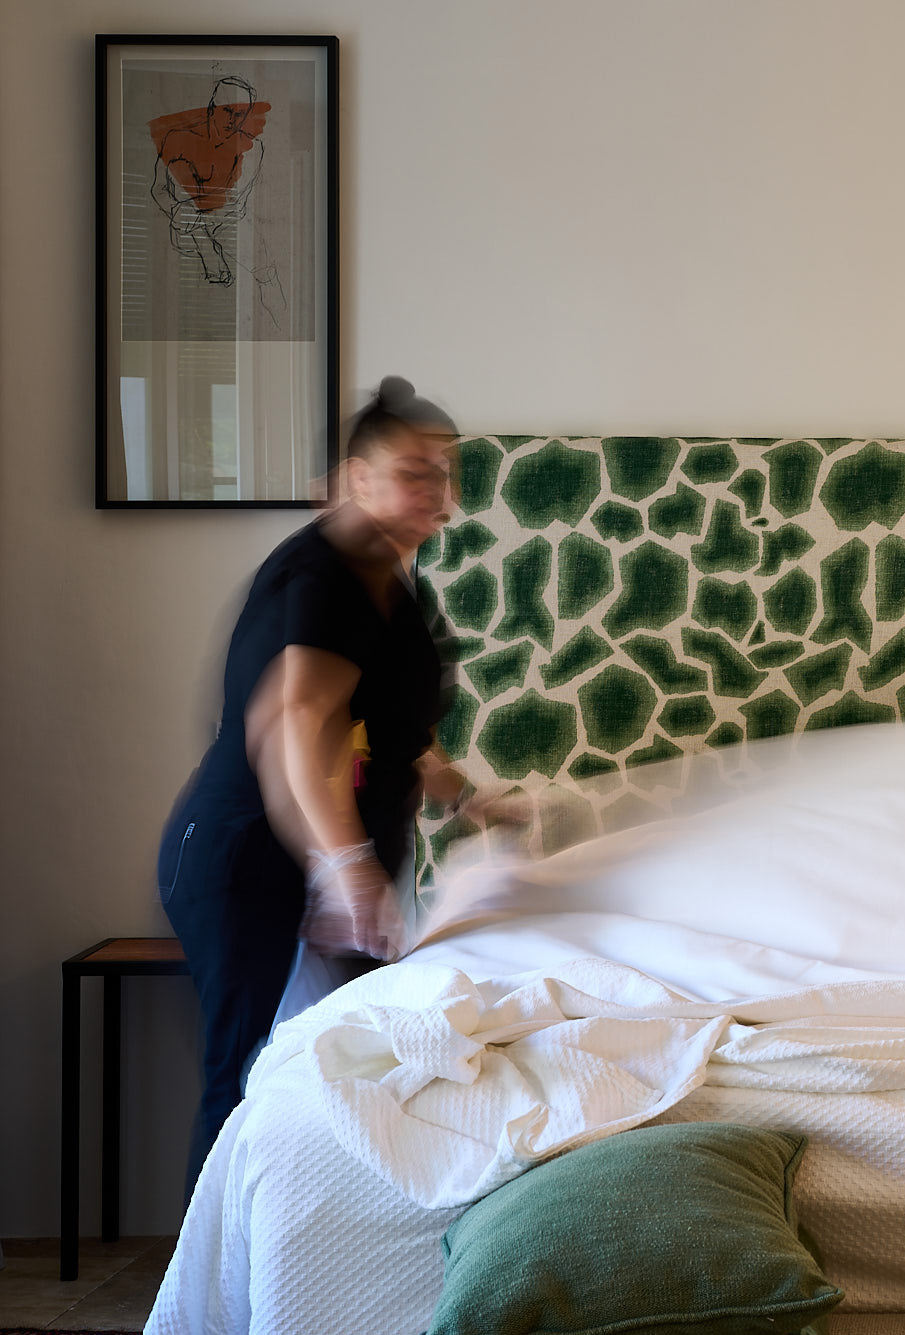
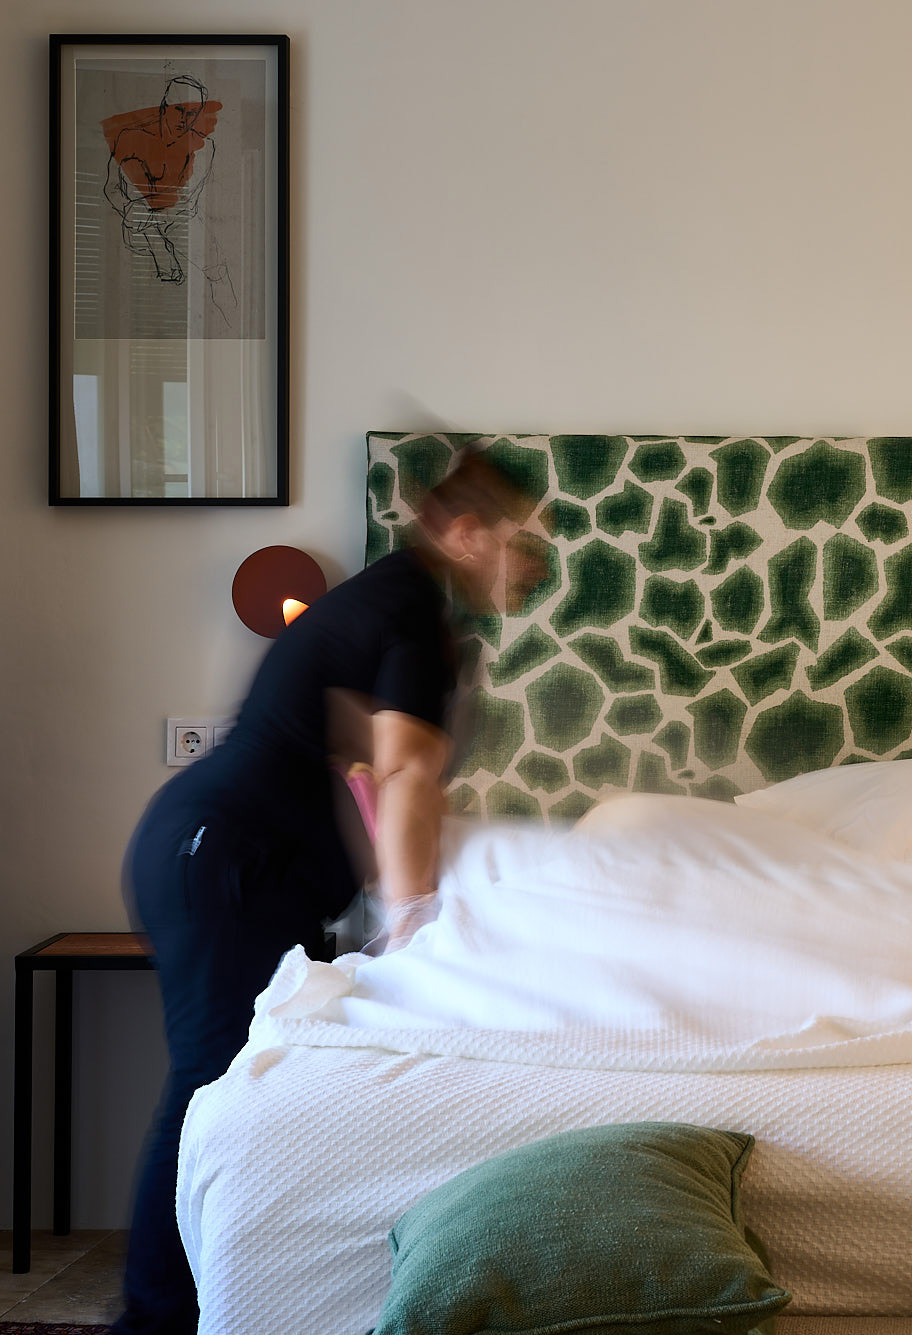
Tableta en vertical: márgenes de retícula, fotos de escritorio y tamaños de texto en El hotel; titulares unificados

diff --git a/src/css/style.css b/src/css/style.css
@@ -325,7 +325,7 @@ button { font: inherit; color: inherit; background: none; border: 0; cursor: poi
   margin: 0;
   font-family: var(--f-serif);
   font-weight: 300;
-  font-size: var(--fs-lead);
+  font-size: var(--fs-h1);
   line-height: 1.2; /* 120% */
   color: var(--c-olive-dark);
 }
@@ -390,6 +390,7 @@ button { font: inherit; color: inherit; background: none; border: 0; cursor: poi
 .hero ~ section {
   position: relative;
   z-index: 1;
+  transform: translateZ(0);         /* iPad (Safari/Chrome): fuerza a pintar la sección en su propia capa, por encima del hero; si no, el titular y la frase del hero se veían encima del contenido  */
   background: var(--c-bg);
 }
 
@@ -615,7 +616,7 @@ button { font: inherit; color: inherit; background: none; border: 0; cursor: poi
   margin: 20px 0 0;                /* 20px desde "Vivir Viento 10" */
   font-family: var(--f-serif);
   font-weight: 300;
-  font-size: var(--fs-room-name);  /* 40px */
+  font-size: var(--fs-h1);  /* 40px */
   line-height: 1.2;
   color: var(--c-olive-dark);
 }
@@ -698,7 +699,7 @@ button { font: inherit; color: inherit; background: none; border: 0; cursor: poi
   margin: 20px 0 0;
   font-family: var(--f-serif);
   font-weight: 300;
-  font-size: var(--fs-room-name);  /* 40px */
+  font-size: var(--fs-h1);  /* 40px */
   line-height: 1.2;
   color: var(--c-olive-dark);
   max-width: 700px;                /* caja ajustada: corta en "vivieron / Viento 10," */
@@ -809,7 +810,7 @@ button { font: inherit; color: inherit; background: none; border: 0; cursor: poi
   margin: 0 0 50px;
   font-family: var(--f-serif);
   font-weight: 300;
-  font-size: var(--fs-room-name);  /* 40px */
+  font-size: var(--fs-h1);  /* 40px */
   line-height: 1.2;
 }
 
@@ -1086,7 +1087,7 @@ button { font: inherit; color: inherit; background: none; border: 0; cursor: poi
   margin: 20px 0 0;                           /* 20px desde el antetítulo */
   font-family: var(--f-serif);
   font-weight: 300;
-  font-size: var(--fs-room-name);             /* 40px */
+  font-size: var(--fs-h1);             /* 40px */
   line-height: 1.2;
   color: var(--c-olive-dark);
 }
@@ -1214,7 +1215,7 @@ button { font: inherit; color: inherit; background: none; border: 0; cursor: poi
   margin: 15px 0 0;
   font-family: var(--f-serif);
   font-weight: 300;
-  font-size: var(--fs-more);                  /* 40px a 1440 (ver --fs-more) */
+  font-size: var(--fs-h1);                    /* 40px, como los demás titulares grandes */
   line-height: 1.2;
 }
 /* Enlaces en cursiva y subrayados; en hover bajan la opacidad */
@@ -1433,12 +1434,13 @@ html:has(body.no-scroll) { overflow: hidden; } /* Safari: si no, la página de d
   rotate: -4deg;                              /* "rotate" para no chocar con el fundido (transform) */
 }
 
-@media (max-width: 767px) {
+@media (max-width: 767px), (max-width: 1023px) and (orientation: portrait) {   /* móvil y tableta en vertical: ladillo encima y texto debajo */
   .care { padding: 0 var(--gutter-sm) 100px; }
   .care__media { aspect-ratio: 810 / 1200; }   /* vertical, la proporción de img_salon_movil.jpg (antes 4/3 horizontal) */
   .care__body { flex-direction: column; gap: 20px; margin-top: 40px; } /* 40px entre foto y ladillo, 20px entre ladillo y texto */
   .care__text { flex-basis: auto; }      /* mismo motivo: el ancho de escritorio (665px) no debe volverse alto en columna */
   .care__text .care__lead { margin-bottom: 30px; }
+  .care__text p:not(.care__lead) { font-size: var(--fs-body-tablet); line-height: var(--lh-body-tablet); }
   .care__script { margin-top: calc(80px - .6em); }
 }
 
@@ -1467,11 +1469,21 @@ html:has(body.no-scroll) { overflow: hidden; } /* Safari: si no, la página de d
 }
 .story__text p { font-size: 1rem; line-height: 1.5; } /* 16px */
 
-@media (max-width: 767px) {
+@media (max-width: 767px), (max-width: 1023px) and (orientation: portrait) {   /* móvil y tableta en vertical: ladillo encima y texto debajo */
   .story { padding-bottom: 100px; }
   .story__media { aspect-ratio: 904 / 1335; }   /* móvil: vertical, proporción de img_pasillo_movil.jpg (antes 4/3) */
   .story__body { margin-top: 40px; padding: 0 var(--gutter-sm); }
-  .story__text p { font-size: .875rem; }
+  .story__text p { font-size: var(--fs-body-tablet); line-height: var(--lh-body-tablet); }
+}
+
+@media (min-width: 768px) and (max-width: 1023px) and (orientation: portrait) {   /* tableta en vertical: texto dentro de la retícula (sin la 1.ª y la última columna) */
+  .care { padding-left: var(--text-side-tablet); padding-right: var(--text-side-tablet); }
+  .story__body { padding: 0 var(--text-side-tablet); }
+  .care__media { aspect-ratio: 1125 / 727; }   /* fotos de escritorio, horizontales */
+  .story__media { aspect-ratio: 1440 / 1047; }
+  .care__title { font-size: var(--fs-subhead-tablet); }
+  .care__text .care__lead { font-size: var(--fs-lead-tablet); }
+  .care__text p:not(.care__lead), .story__text p { font-size: var(--fs-body-tablet); line-height: var(--lh-body-tablet); }
 }
 
 /* ---------- Página El hotel · El flechazo (Gerardo Holgado) ----------
@@ -2532,8 +2544,6 @@ html.is-loading body { background: transparent; }
 
 /* Tableta en vertical: usa las fotos _movil (verticales), así que sus cajas toman la misma proporción que en el móvil */
 @media (min-width: 768px) and (max-width: 1023px) and (orientation: portrait) {
-  .care__media  { aspect-ratio: 810 / 1200; }   /* img_salon_movil.jpg */
-  .story__media { aspect-ratio: 904 / 1335; }   /* img_pasillo_movil.jpg */
   .amenities { min-height: 0; aspect-ratio: 905 / 1335; }   /* img_camarera-pisos_movil.jpg */
   .feature__media:has(source[srcset*="01_piscina_jardin_movil"]) { aspect-ratio: 1335 / 2000; }
   .feature__media:has(source[srcset*="04_desayuno_movil"])       { aspect-ratio: 1106 / 1335; }
@@ -2541,3 +2551,6 @@ html.is-loading body { background: transparent; }
   .feature__media:has(source[srcset*="12_equipo_movil"])         { aspect-ratio: 1354 / 1335; }
   .contact__row:not(.contact__row--arrive) .contact__media img { aspect-ratio: 980 / 1308; }   /* 02_mapa_viento_movil.jpg */
 }
+
+/* Tableta: todos los titulares grandes de sección al mismo tamaño que «Un hotel en el centro histórico…» (26px) */
+@media (min-width: 768px) and (max-width: 1199px) { :is(.testimonials__title, .city__title, .faq__title, .more__text) { font-size: var(--fs-statement-tablet); } }

diff --git a/src/css/tokens.css b/src/css/tokens.css
@@ -52,6 +52,7 @@
   --page-side:  max(0px, (100vw - var(--page-max)) / 2); /* espacio sobrante a cada lado (0 hasta 1440) */
   --page-spread: calc(var(--page-side) * .5); /* Experiencia y Opiniones: cuánto se separan a lo ancho titular y texto en pantallas grandes (0 = juntos como en el Figma, 1 = hasta el borde) */
   --gutter:     calc(clamp(20px, 10.8vw, 156px) + var(--page-side)); /* margen lateral de 156px a 1440, centrado en pantallas grandes */
+  --text-side-tablet: 16.4vw;                  /* tableta en vertical: margen de los bloques de texto (margen + 1 columna + medianil de la retícula de 8 columnas; 126px a 768) */
   --edge:       clamp(20px, 3vw, 42px);          /* distancia de la cabecera (idioma, Reservar/Menú) al borde de la pantalla */
   --gutter-sm:  calc(var(--edge) + var(--page-side)); /* margen lateral pequeño, centrado en pantallas grandes */
   --radius:     6px;
@@ -78,6 +79,7 @@
   --rooms-text-move: 2.2s;     /* deslizamiento de la cinta de nombres */
   --rooms-names-gap: clamp(500px, 24vw, 600px); /* separación entre nombres: controla cuánto asoman los vecinos */
   --ease-names: cubic-bezier(.65, 0, .35, 1);   /* arranque y llegada suaves */
+  --fs-h1: 2.5rem;           /* 40px · titulares grandes de sección (escritorio): «Un hotel en el centro histórico…», «La habitación es solo el principio…», opiniones, Córdoba, «Lo esencial…», intros de página y «Más sobre Viento 10». En tableta: --fs-statement-tablet */
   --fs-room-name: 2.5rem;    /* 40px · nombre de la habitación (Canela) */
   --fs-room-details: 1rem;   /* 16px · capacidad y cama (Gotham) */
 
@@ -160,6 +162,10 @@
   --reviews-bottom-tablet: 120px;    /* tableta: espacio debajo de Testimonios (escritorio 260px) */
   --welcome-title-gap: 100px;        /* Bienvenida: espacio bajo «Bienvenidos al hotel Viento 10» hasta la primera foto (antes 3vw ≈ 43px a 1440) */
   --welcome-title-gap-mobile: 60px;  /* lo mismo en móvil (antes 40px) */
+  --fs-subhead-tablet: 1.25rem;      /* tableta en vertical (El hotel): ladillo, 20px */
+  --fs-lead-tablet:    1.5rem;       /* tableta en vertical (El hotel): entradilla, 24px */
+  --fs-body-tablet:    .875rem;      /* móvil y tableta en vertical (El hotel): texto corrido, 14px */
+  --lh-body-tablet:    1.7;          /* móvil y tableta en vertical (El hotel): interlineado del texto corrido (23,8px a 14px) */
   --fs-statement-tablet: 1.625rem;   /* tableta: texto centrado («Un hotel en el centro histórico…»): 26px */
   --reviews-deco-top-mobile: 140px; /* móvil · opiniones: altura de los dientes de león desde arriba de la sección (antes 40px); más alto = más cerca de la cita */
   --reviews-move: 30px;      /* distancia que sube cada opinión al aparecer (0 = solo fundido) */

diff --git a/src/hotel.html b/src/hotel.html
@@ -4,8 +4,8 @@
   <meta charset="UTF-8">
   <meta name="viewport" content="width=device-width, initial-scale=1.0">
   <title>El hotel • Viento 10, hotel boutique en Córdoba</title>
-  <link rel="stylesheet" href="css/tokens.css?v=2026-11-14h">
-  <link rel="stylesheet" href="css/style.css?v=2026-11-14h">
+  <link rel="stylesheet" href="css/tokens.css?v=2026-11-15a">
+  <link rel="stylesheet" href="css/style.css?v=2026-11-15a">
 </head>
 <body>
 
@@ -106,7 +106,7 @@
     <section class="care">
       <div class="care__media reveal">
         <picture>
-          <source media="(max-width: 767px), (max-width: 1023px) and (orientation: portrait)" srcset="assets/img/hotel/img_salon_movil.jpg">
+          <source media="(max-width: 767px)" srcset="assets/img/hotel/img_salon_movil.jpg">
           <img class="care__img" data-parallax="0.1" src="assets/img/hotel/img_salon.jpg" alt="Huésped descansando en el salón junto al jardín">
         </picture>
       </div>
@@ -124,7 +124,7 @@
     <section class="story">
       <div class="story__media">
         <picture>
-          <source media="(max-width: 767px), (max-width: 1023px) and (orientation: portrait)" srcset="assets/img/hotel/img_pasillo_movil.jpg">
+          <source media="(max-width: 767px)" srcset="assets/img/hotel/img_pasillo_movil.jpg">
           <img class="story__img" data-parallax="0.1" src="assets/img/hotel/img_pasillo.jpg" alt="Galería acristalada sobre los arcos del patio">
         </picture>
       </div>
@@ -273,6 +273,6 @@
     </div>
   </footer>
 
-  <script src="js/main.js?v=2026-11-14h"></script>
+  <script src="js/main.js?v=2026-11-15a"></script>
 </body>
 </html>

diff --git a/src/cordoba.html b/src/cordoba.html
@@ -4,8 +4,8 @@
   <meta charset="UTF-8">
   <meta name="viewport" content="width=device-width, initial-scale=1.0">
   <title>Sobre Córdoba • Viento 10, hotel boutique en Córdoba</title>
-  <link rel="stylesheet" href="css/tokens.css?v=2026-11-14h">
-  <link rel="stylesheet" href="css/style.css?v=2026-11-14h">
+  <link rel="stylesheet" href="css/tokens.css?v=2026-11-15a">
+  <link rel="stylesheet" href="css/style.css?v=2026-11-15a">
 </head>
 <body class="page-cream">
 
@@ -390,6 +390,6 @@
     </div>
   </footer>
 
-  <script src="js/main.js?v=2026-11-14h"></script>
+  <script src="js/main.js?v=2026-11-15a"></script>
 </body>
 </html>

diff --git a/src/contacto.html b/src/contacto.html
@@ -4,8 +4,8 @@
   <meta charset="UTF-8">
   <meta name="viewport" content="width=device-width, initial-scale=1.0">
   <title>Contacto • Viento 10, hotel boutique en Córdoba</title>
-  <link rel="stylesheet" href="css/tokens.css?v=2026-11-14h">
-  <link rel="stylesheet" href="css/style.css?v=2026-11-14h">
+  <link rel="stylesheet" href="css/tokens.css?v=2026-11-15a">
+  <link rel="stylesheet" href="css/style.css?v=2026-11-15a">
 </head>
 <body class="page-cream">
 
@@ -279,6 +279,6 @@
     </div>
   </footer>
 
-  <script src="js/main.js?v=2026-11-14h"></script>
+  <script src="js/main.js?v=2026-11-15a"></script>
 </body>
 </html>

diff --git a/src/vivir.html b/src/vivir.html
@@ -4,8 +4,8 @@
   <meta charset="UTF-8">
   <meta name="viewport" content="width=device-width, initial-scale=1.0">
   <title>Vivir Viento 10 • Viento 10, hotel boutique en Córdoba</title>
-  <link rel="stylesheet" href="css/tokens.css?v=2026-11-14h">
-  <link rel="stylesheet" href="css/style.css?v=2026-11-14h">
+  <link rel="stylesheet" href="css/tokens.css?v=2026-11-15a">
+  <link rel="stylesheet" href="css/style.css?v=2026-11-15a">
 </head>
 <body>
 
@@ -329,6 +329,6 @@
     </div>
   </footer>
 
-  <script src="js/main.js?v=2026-11-14h"></script>
+  <script src="js/main.js?v=2026-11-15a"></script>
 </body>
 </html>

diff --git a/src/habitaciones.html b/src/habitaciones.html
@@ -4,8 +4,8 @@
   <meta charset="UTF-8">
   <meta name="viewport" content="width=device-width, initial-scale=1.0">
   <title>Habitaciones • Viento 10, hotel boutique en Córdoba</title>
-  <link rel="stylesheet" href="css/tokens.css?v=2026-11-14h">
-  <link rel="stylesheet" href="css/style.css?v=2026-11-14h">
+  <link rel="stylesheet" href="css/tokens.css?v=2026-11-15a">
+  <link rel="stylesheet" href="css/style.css?v=2026-11-15a">
 </head>
 <body>
 
@@ -515,6 +515,6 @@
     </div>
   </dialog>
 
-  <script src="js/main.js?v=2026-11-14h"></script>
+  <script src="js/main.js?v=2026-11-15a"></script>
 </body>
 </html>

diff --git a/src/index.html b/src/index.html
@@ -4,8 +4,8 @@
   <meta charset="UTF-8">
   <meta name="viewport" content="width=device-width, initial-scale=1.0">
   <title>Viento 10 • Hotel boutique en Córdoba</title>
-  <link rel="stylesheet" href="css/tokens.css?v=2026-11-14h">
-  <link rel="stylesheet" href="css/style.css?v=2026-11-14h">
+  <link rel="stylesheet" href="css/tokens.css?v=2026-11-15a">
+  <link rel="stylesheet" href="css/style.css?v=2026-11-15a">
 </head>
 <body>
 
@@ -334,6 +334,6 @@
     </div>
   </footer>
 
-  <script src="js/main.js?v=2026-11-14h"></script>
+  <script src="js/main.js?v=2026-11-15a"></script>
 </body>
 </html>
